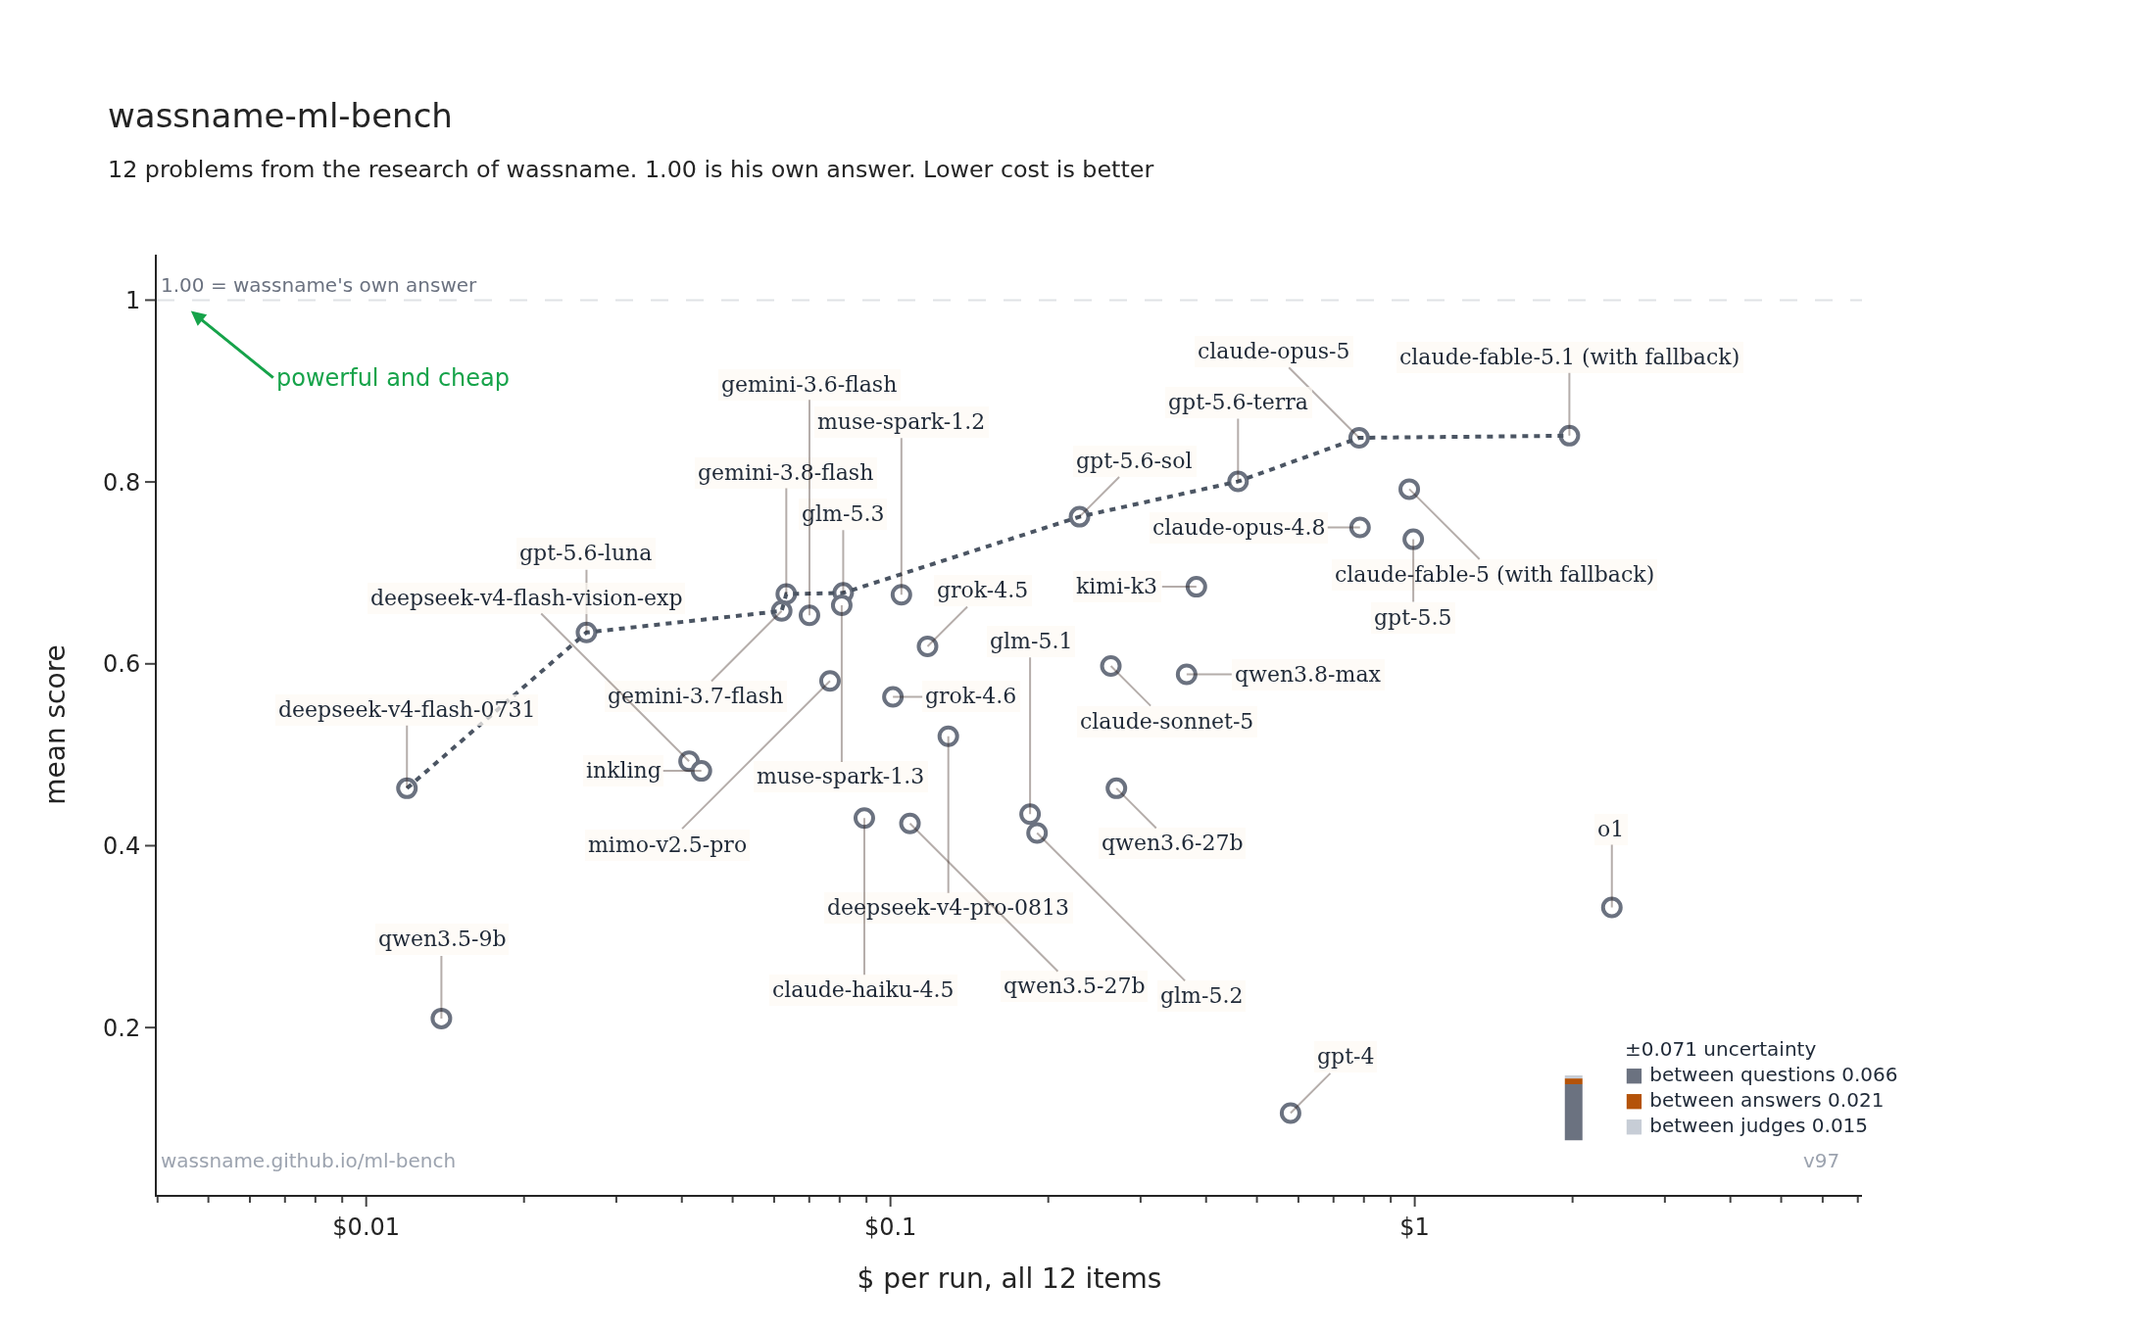
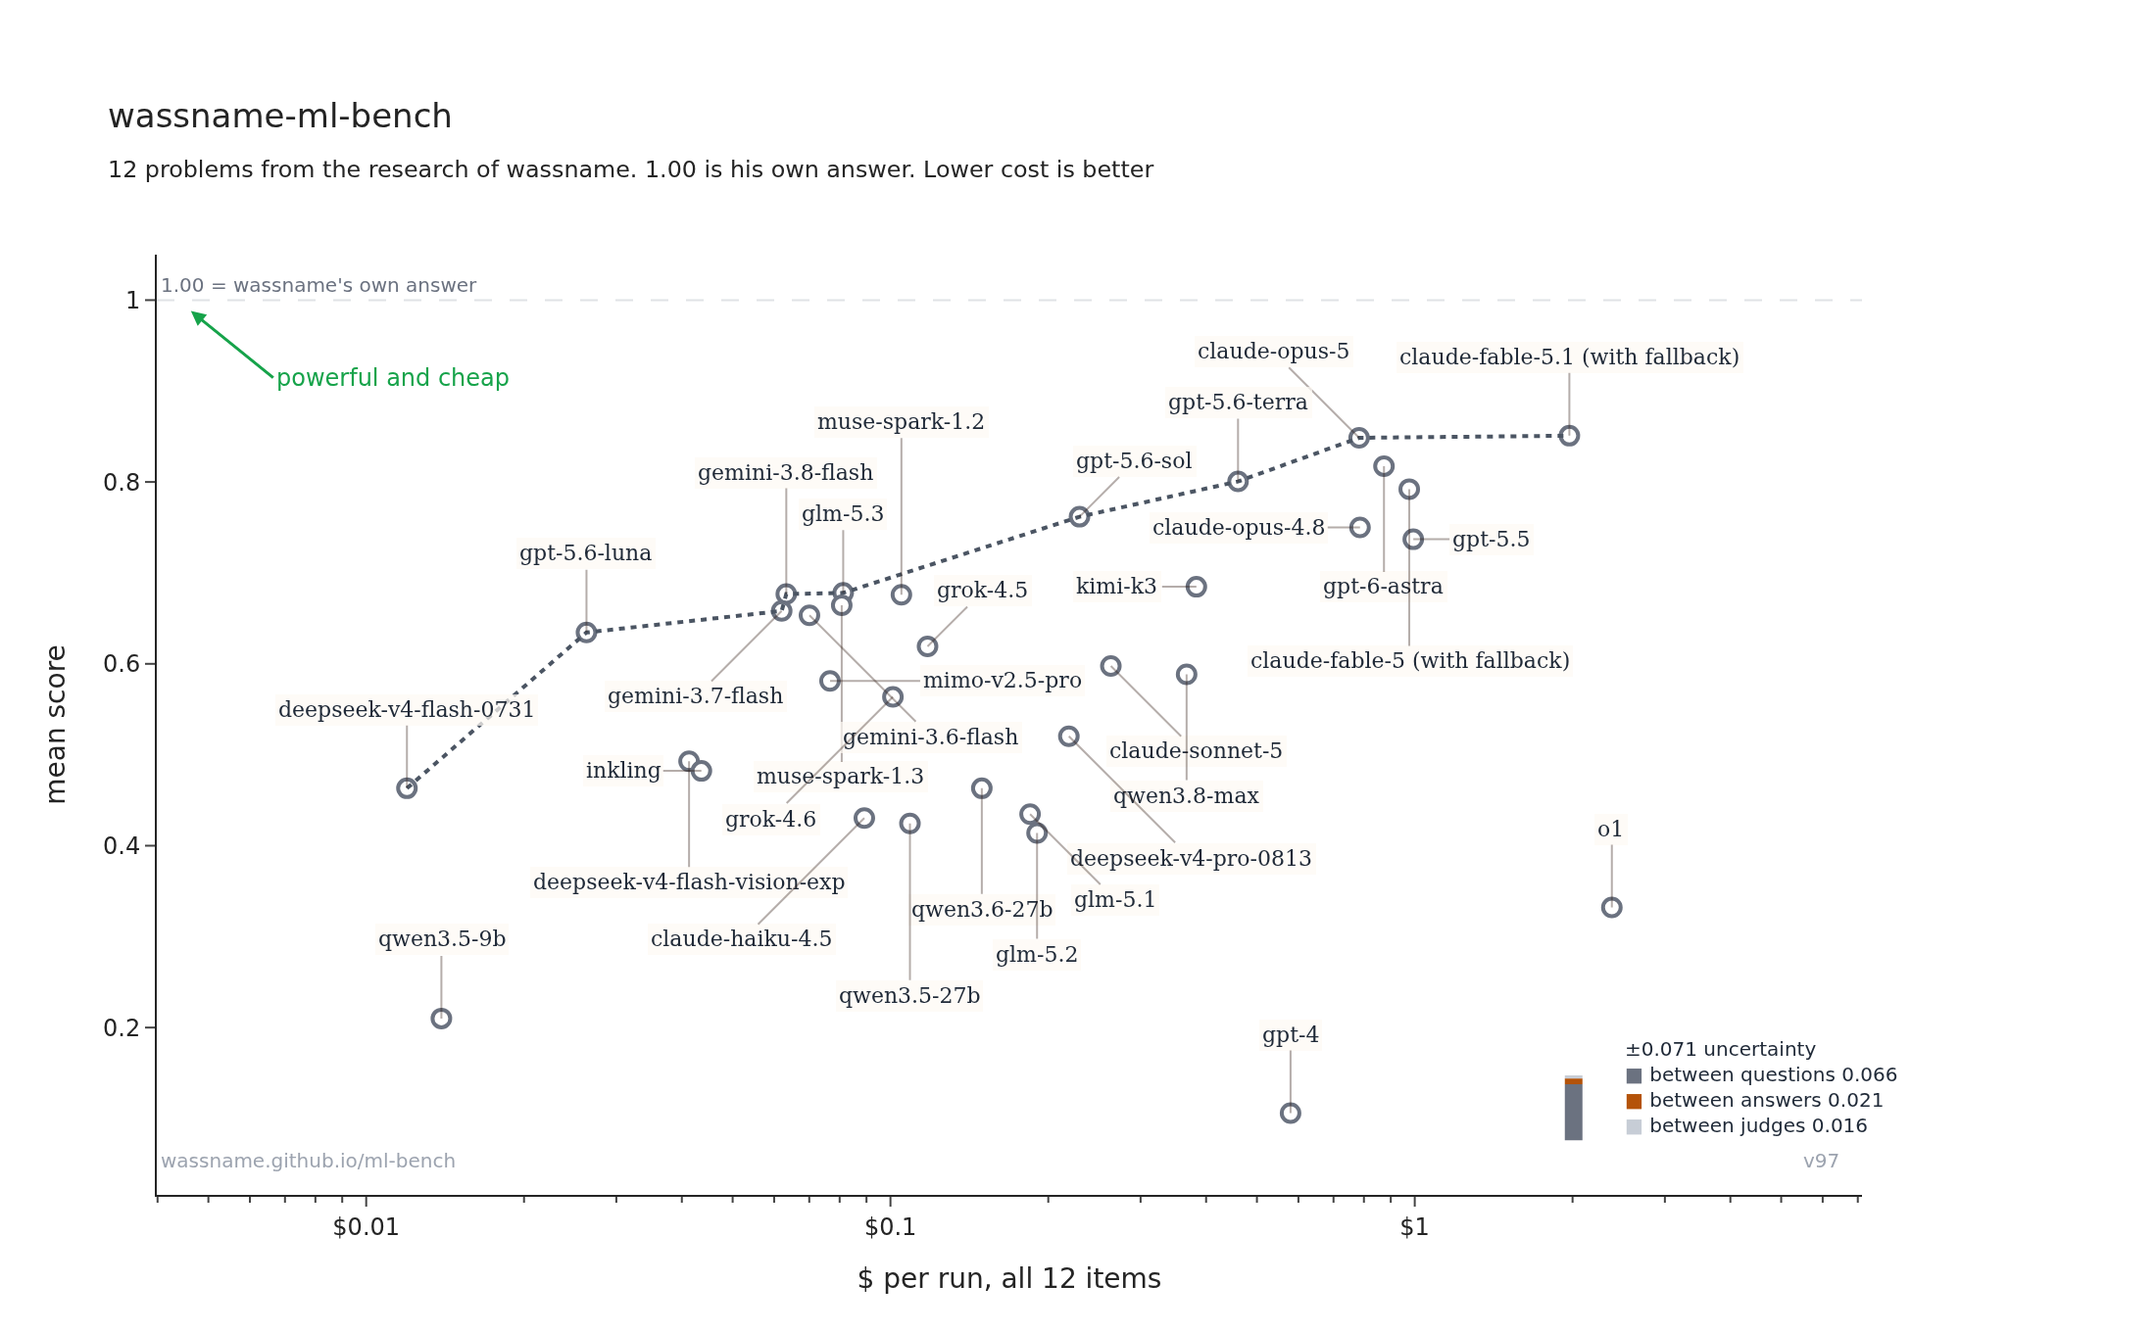
results 2026-09-05

diff --git a/bench.py b/bench.py
@@ -193,6 +193,7 @@ MODELS = {
         "openrouter/google/gemma-3-4b-it",
         "openrouter/google/gemma-4-31b-it",
         "openrouter/openai/gpt-5.6-luna",
+        "openrouter/openai/gpt-6-astra",
         "openrouter/deepseek/deepseek-v4-flash-0731",
     ],
     # One family at five sizes, so the chart has a cheap left anchor and a scaling curve inside a

diff --git a/results.md b/results.md
@@ -20,6 +20,7 @@ means a model has to work the answer out rather than recall it. Code and numbers
 |:---------------------------------|------------------:|:-------|:-----------------------|------------:|-----------:|----------------------------:|------------------------:|----------------------------:|---------------------------------:|-----------------------------:|---------------------:|----------------------:|--------------------------:|----------------------:|-----------------------:|-----------------------:|------------------------------:|--------------------------------:|----------------------:|
 | claude-fable-5.1 (with fallback) |         **+0.85** | ±0.050 | 11/12                  |           1 |       $2.0 |                       3,033 |                      23 |                       +0.72 |                            +0.78 |                        +0.58 |                +0.86 |                 +1.06 |                     +1.11 |             **+0.77** |              **+0.88** |                  +0.97 |                         +0.81 |                         *+0.61* |             **+1.06** |
 | claude-opus-5                    |         **+0.85** | ±0.050 | 12/12                  |           1 |      $0.78 |                       2,354 |                      30 |                       +0.73 |                            +0.79 |                        +0.62 |            **+0.96** |                 +1.01 |                     +1.06 |             **+0.80** |                  +0.67 |                  +1.06 |                         +0.81 |                           +0.61 |             **+1.06** |
+| gpt-6-astra                      |         **+0.82** | ±0.054 | 12/12                  |           1 |      $0.87 |                       1,354 |                      50 |                       +0.73 |                            +0.83 |                        +0.66 |                +0.61 |                 +1.07 |                     +1.07 |                 +0.74 |              **+0.87** |                  +0.51 |                         +0.89 |                           +0.76 |             **+1.07** |
 | gpt-5.6-terra                    |         **+0.80** | ±0.043 | 12/12                  |           1 |      $0.46 |                       3,110 |                      21 |                       +0.60 |                            +0.57 |                    **+0.96** |                +0.72 |                 +0.97 |                     +1.01 |                 +0.74 |              **+0.85** |                  +0.63 |                         +0.82 |                       **+0.83** |                 +0.91 |
 | claude-fable-5 (with fallback)   |         **+0.79** | ±0.047 | 9/12                   |           1 |      $0.98 |                       1,444 |                      46 |                     *+0.73* |                            +0.79 |                        +0.71 |                +0.72 |                 +0.89 |                   *+1.06* |                 +0.69 |                *+0.67* |              **+1.14** |                         +0.67 |                           +0.61 |                 +0.82 |
 | gpt-5.6-sol                      |             +0.76 | ±0.095 | 12/12                  |           1 |      $0.23 |                       1,809 |                      35 |                       +0.73 |                            -0.10 |                        +0.88 |                +0.81 |             **+1.13** |                     +1.01 |             **+0.79** |              **+0.85** |                  +0.47 |                     **+0.96** |                           +0.56 |             **+1.04** |
@@ -28,7 +29,7 @@ means a model has to work the answer out rather than recall it. Code and numbers
 | kimi-k3                          |             +0.68 | ±0.067 | 12/12                  |           1 |      $0.38 |                       1,992 |                      29 |                       +0.37 |                            +0.69 |                        +0.55 |                +0.26 |                 +1.01 |                     +1.02 |                 +0.70 |                  +0.69 |                  +0.71 |                         +0.72 |                           +0.55 |                 +0.94 |
 | glm-5.3                          |             +0.68 | ±0.074 | 12/12                  |           1 |     $0.081 |                       1,345 |                      42 |                       +0.73 |                            +0.19 |                        +0.49 |                +0.38 |                 +0.97 |                     +1.03 |             **+0.81** |              **+0.83** |                  +0.43 |                         +0.67 |                           +0.69 |                 +0.89 |
 | gemini-3.8-flash                 |             +0.68 | ±0.078 | 12/12                  |           1 |     $0.063 |                       1,277 |                      44 |                       +0.62 |                            +0.03 |                        +0.55 |                +0.81 |                 +0.99 |                     +1.04 |             **+0.79** |                  +0.77 |                  +0.46 |                         +0.61 |                           +0.59 |                 +0.87 |
-| muse-spark-1.2                   |             +0.68 | ±0.093 | 12/12                  |           1 |      $0.10 |                       1,880 |                      30 |                       +0.73 |                            +0.06 |                        +0.69 |                +0.18 |                 +1.01 |                     +1.11 |                 +0.52 |              **+0.84** |                  +0.51 |                         +0.77 |                           +0.69 |             **+1.01** |
+| muse-spark-1.2                   |             +0.68 | ±0.093 | 12/12                  |           1 |      $0.10 |                       1,880 |                      30 |                       +0.73 |                            +0.06 |                        +0.69 |                +0.18 |                 +1.01 |                     +1.11 |                 +0.52 |              **+0.84** |                  +0.51 |                         +0.77 |                           +0.69 |                 +1.01 |
 | muse-spark-1.3                   |             +0.66 | ±0.071 | 12/12                  |           1 |     $0.081 |                       1,406 |                      39 |                       +0.66 |                            +0.61 |                        +0.51 |                +0.15 |                 +1.01 |                     +1.06 |                 +0.55 |                  +0.82 |                  +0.59 |                         +0.64 |                           +0.53 |                 +0.86 |
 | gemini-3.7-flash                 |             +0.66 | ±0.060 | 12/12                  |           1 |     $0.062 |                       1,249 |                      44 |                       +0.74 |                            +0.53 |                        +0.62 |                +0.22 |                 +0.97 |                     +0.96 |                 +0.63 |                  +0.62 |                  +0.51 |                         +0.75 |                           +0.52 |                 +0.84 |
 | gemini-3.6-flash                 |             +0.65 | ±0.059 | 12/12                  |           1 |     $0.070 |                       1,428 |                      38 |                       +0.69 |                            +0.57 |                        +0.44 |                +0.51 |                 +0.84 |                     +1.07 |                 +0.56 |                  +0.59 |                  +0.55 |                         +0.79 |                           +0.37 |                 +0.87 |
@@ -39,10 +40,10 @@ means a model has to work the answer out rather than recall it. Code and numbers
 | qwen3.8-max                      |             +0.59 | ±0.079 | 12/12                  |           1 |      $0.37 |                       4,123 |                      12 |                   **+0.80** |                            +0.02 |                        +0.72 |                +0.22 |                 +0.88 |                     +0.94 |                 +0.61 |                  +0.43 |                  +0.56 |                         +0.62 |                           +0.44 |                 +0.82 |
 | mimo-v2.5-pro                    |             +0.58 | ±0.070 | 12/12                  |           1 |     $0.077 |                       5,178 |                       9 |                       +0.73 |                            +0.13 |                        +0.43 |                +0.24 |                 +0.87 |                     +0.95 |                 +0.56 |                  +0.61 |                  +0.62 |                         +0.59 |                           +0.47 |                 +0.77 |
 | grok-4.6                         |             +0.56 | ±0.075 | 12/12                  |           1 |      $0.10 |                       1,169 |                      40 |                       +0.69 |                            -0.03 |                        +0.40 |                +0.29 |                 +0.76 |                     +0.85 |                 +0.58 |                  +0.66 |                  +0.61 |                         +0.53 |                           +0.51 |                 +0.92 |
-| deepseek-v4-pro-0813             |             +0.52 | ±0.067 | 12/12                  |           1 |      $0.13 |                       5,026 |                       9 |                       +0.63 |                            -0.06 |                        +0.51 |                +0.34 |                 +0.59 |                     +0.87 |                 +0.60 |                  +0.40 |                  +0.71 |                         +0.64 |                           +0.58 |                 +0.45 |
+| deepseek-v4-pro-0813             |             +0.52 | ±0.067 | 12/12                  |           1 |      $0.22 |                       5,026 |                       9 |                       +0.63 |                            -0.06 |                        +0.51 |                +0.34 |                 +0.59 |                     +0.87 |                 +0.60 |                  +0.40 |                  +0.71 |                         +0.64 |                           +0.58 |                 +0.45 |
 | deepseek-v4-flash-vision-exp     |             +0.49 | ±0.082 | 12/12                  |           1 |     $0.041 |                       4,978 |                       8 |                       +0.69 |                            -0.08 |                        +0.35 |                +0.06 |                 +0.76 |                     +0.91 |                 +0.64 |                  +0.63 |                  +0.34 |                         +0.51 |                           +0.52 |                 +0.57 |
 | inkling                          |             +0.48 | ±0.076 | 12/12                  |           1 |     $0.044 |                         745 |                  **54** |                       +0.73 |                            -0.06 |                        +0.25 |                +0.20 |                 +0.92 |                     +0.60 |                 +0.59 |                  +0.51 |                  +0.46 |                         +0.45 |                           +0.42 |                 +0.71 |
-| qwen3.6-27b                      |             +0.46 | ±0.080 | 12/12                  |           1 |      $0.27 |                       6,038 |                       6 |                       +0.24 |                            -0.04 |                        +0.34 |                +0.17 |                 +0.86 |                     +0.97 |                 +0.58 |                  +0.45 |                  +0.53 |                         +0.49 |                           +0.53 |                 +0.45 |
+| qwen3.6-27b                      |             +0.46 | ±0.080 | 12/12                  |           1 |      $0.15 |                       6,038 |                       6 |                       +0.24 |                            -0.04 |                        +0.34 |                +0.17 |                 +0.86 |                     +0.97 |                 +0.58 |                  +0.45 |                  +0.53 |                         +0.49 |                           +0.53 |                 +0.45 |
 | deepseek-v4-flash-0731           |             +0.46 | ±0.080 | 12/12                  |           1 | **$0.012** |                       5,062 |                       8 |                       +0.42 |                            -0.03 |                        +0.53 |                +0.15 |                 +0.84 |                     +0.94 |                 +0.69 |                  +0.28 |                  +0.43 |                         +0.27 |                           +0.46 |                 +0.57 |
 | glm-5.1                          |             +0.43 | ±0.077 | 12/12                  |           1 |      $0.18 |                       4,681 |                       8 |                       +0.23 |                            -0.01 |                        +0.31 |                +0.04 |                 +0.74 |                     +0.74 |                 +0.58 |                  +0.27 |                  +0.49 |                         +0.78 |                           +0.49 |                 +0.57 |
 | claude-haiku-4.5                 |             +0.43 | ±0.083 | 12/12                  |           1 |     $0.089 |                       1,350 |                      27 |                       +0.72 |                            -0.07 |                        +0.34 |                +0.04 |                 +0.13 |                     +0.77 |                 +0.51 |                  +0.50 |                  +0.76 |                         +0.28 |                           +0.64 |                 +0.58 |
@@ -84,7 +85,7 @@ claude-fable-5 refuses questions its provider blocks, 3 of 12 in at least one dr
 
 claude-fable-5.1 refuses questions its provider blocks, 1 of 12 in at least one draw. The 1 it never answered (VG#11). Those cells take claude-opus-5's score, shown in italic. The row then measures a pair of models, and $/run counts only its own tokens.
 
-What the `+-` bar is made of, measured on deepseek-v4-flash-0731 (skill:ml-debug-v2 effort:high budget:64000) over 5 answers to each question, in row units and added in quadrature: between questions 0.066, between answers 0.021, between judges 0.015. They come to 0.071, against 0.083 on a single answer, and that row's own `+-` of 0.075, which is the spread of its 12 cells, is the other way of measuring the same bar. Only the middle part shrinks with more answers; the first needs more questions.
+What the `+-` bar is made of, measured on deepseek-v4-flash-0731 (skill:ml-debug-v2 effort:high budget:64000) over 5 answers to each question, in row units and added in quadrature: between questions 0.066, between answers 0.021, between judges 0.016. They come to 0.071, against 0.083 on a single answer, and that row's own `+-` of 0.075, which is the spread of its 12 cells, is the other way of measuring the same bar. Only the middle part shrinks with more answers; the first needs more questions.
 
 ### The judges
 
@@ -98,8 +99,8 @@ be one).
 
 | judge                           |   judgments |   off-topic |   gold |    gap |   leniency |
 |:--------------------------------|------------:|------------:|-------:|-------:|-----------:|
-| openai/gpt-oss-120b             |        1584 |      -0.016 | +0.996 | +1.012 |     +0.065 |
-| thinkingmachines/inkling-small  |        1680 |      -0.020 | +0.988 | +1.008 |     -0.000 |
-| google/gemma-4-31b-it           |        1658 |      +0.010 | +0.990 | +0.980 |     -0.001 |
-| qwen/qwen3.7-flash              |        1573 |      -0.004 | +0.992 | +0.996 |     -0.019 |
-| deepseek/deepseek-v4-flash-0731 |         727 |      -0.008 | +0.997 | +1.005 |     -0.045 |
+| openai/gpt-oss-120b             |        1584 |      -0.016 | +0.996 | +1.012 |     +0.064 |
+| thinkingmachines/inkling-small  |        1692 |      -0.020 | +0.988 | +1.008 |     -0.001 |
+| google/gemma-4-31b-it           |        1670 |      +0.010 | +0.990 | +0.980 |     -0.001 |
+| qwen/qwen3.7-flash              |        1585 |      -0.004 | +0.992 | +0.996 |     -0.019 |
+| deepseek/deepseek-v4-flash-0731 |         739 |      -0.008 | +0.997 | +1.005 |     -0.044 |
